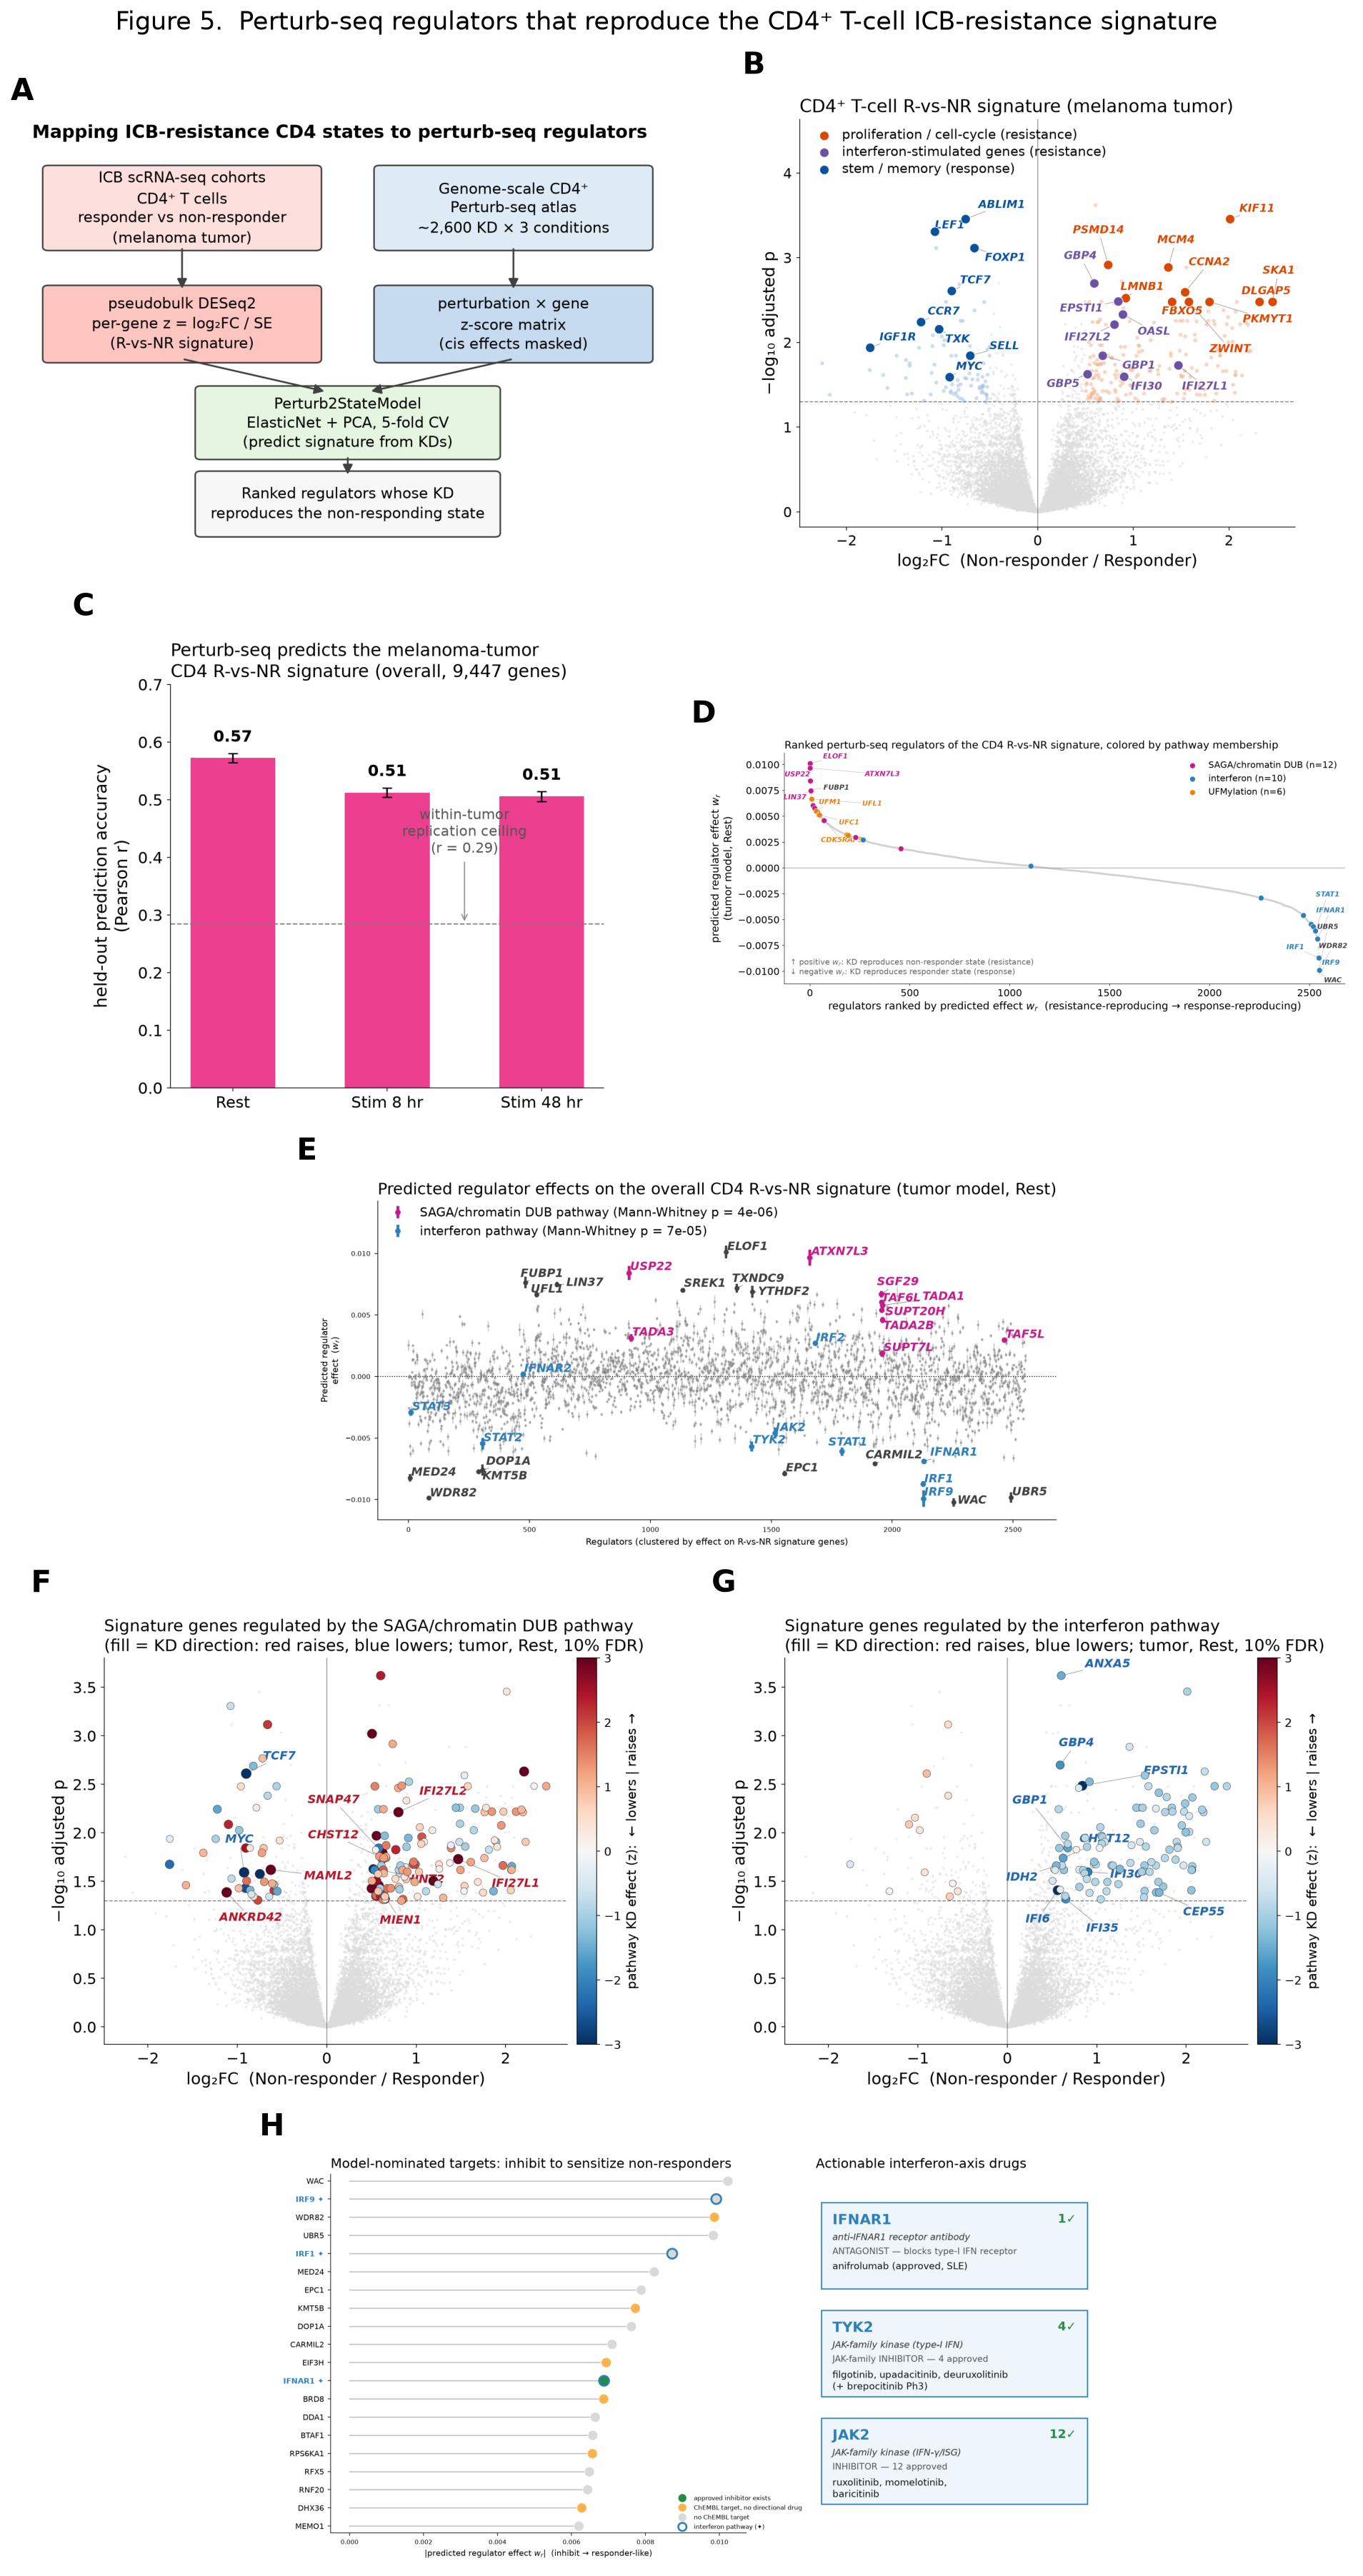
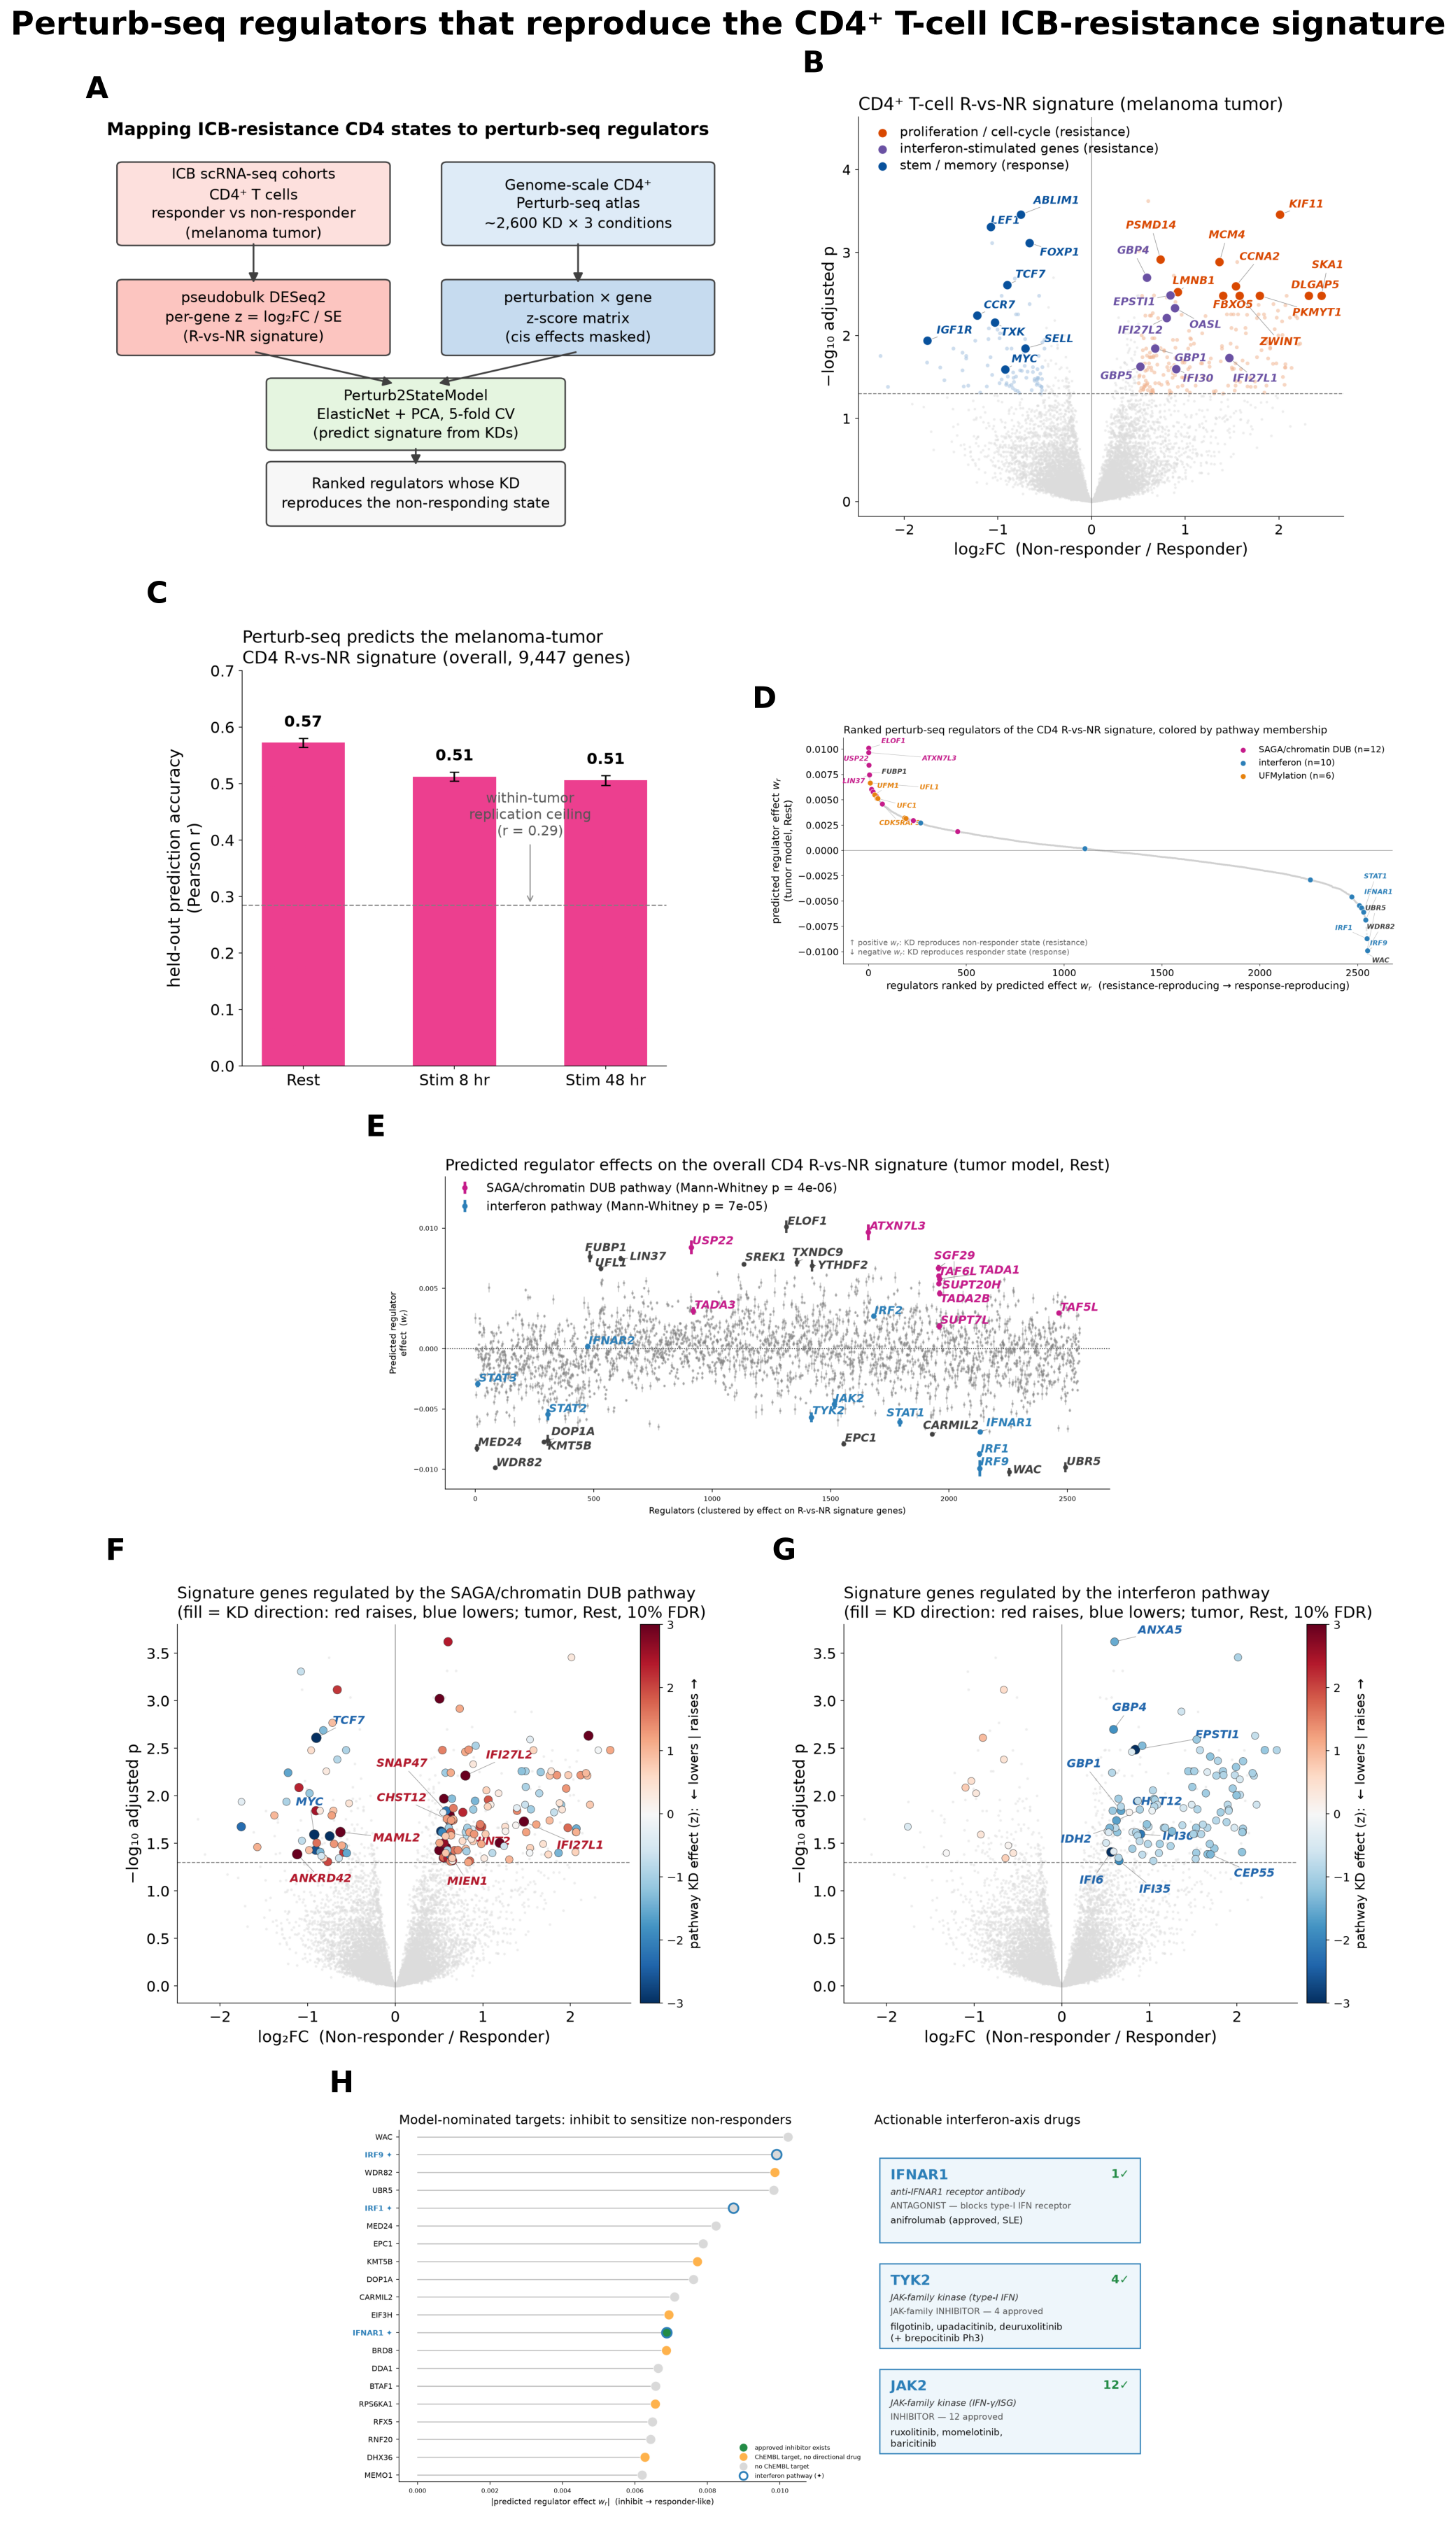
Text-only README (remove embedded figure); refresh composite to current v23; rewrite code/10 as clean 8-panel composition (relative paths)

diff --git a/code/10_figure5_composite.py b/code/10_figure5_composite.py
@@ -1,28 +1,24 @@
 """
-Assemble the 7-panel Figure 5 composite
+Assemble the 8-panel Figure 5 composite (A-H).
 
-Extracted reproduction code (Claude Science lineage).
-Source artifact version: 9b103f16-d49c-46e7-ad74-d9f286b67f5f
+Tiles the eight committed panel PNGs in results/figures/ into the final
+figure5_composite.png. The individual panels are produced by scripts 04-07
+(and the schematic / ranked-regulator panels supplied alongside them).
+
 Conda environment: scrnaseq-perturbseq
 """
 
+import os
 import matplotlib.pyplot as plt
 import matplotlib.image as mpimg
 import matplotlib as mpl
-import os
-import sys
-import glob
-
-
-META_GREY = "#888888"
 
 
 def apply_figure_style(*, frame="open", font=None, sizes=(8, 7, 6), grid=False):
-    import matplotlib as mpl
     if frame not in ("open", "boxed", "none"):
         raise ValueError(f"frame must be 'open'|'boxed'|'none', got {frame!r}")
     try:
-        import os, sys, glob, matplotlib.font_manager as fm
+        import sys, glob, matplotlib.font_manager as fm
         fdir = os.path.join(os.environ.get("CONDA_PREFIX") or sys.prefix, "fonts")
         if os.path.isdir(fdir):
             known = {f.fname for f in fm.fontManager.ttflist}
@@ -33,250 +29,52 @@ def apply_figure_style(*, frame="open", font=None, sizes=(8, 7, 6), grid=False):
         pass
     base, secondary, tick = sizes
     boxed = (frame == "boxed")
-    rc = {
-        "font.family": "sans-serif",
-        "font.size": base,
-        "axes.labelsize": base,
-        "axes.titlesize": base,
-        "legend.fontsize": secondary,
-        "xtick.labelsize": tick,
-        "ytick.labelsize": tick,
+    mpl.rcParams.update({
+        "font.family": "sans-serif", "font.size": base,
+        "axes.labelsize": base, "axes.titlesize": base,
+        "legend.fontsize": secondary, "xtick.labelsize": tick, "ytick.labelsize": tick,
         "axes.linewidth": 0.6,
         "xtick.direction": "out", "ytick.direction": "out",
         "xtick.major.size": 3, "ytick.major.size": 3,
         "xtick.major.width": 0.6, "ytick.major.width": 0.6,
         "axes.spines.top": boxed, "axes.spines.right": boxed,
         "axes.spines.left": frame != "none", "axes.spines.bottom": frame != "none",
-        "axes.grid": bool(grid),
-        "legend.frameon": False,
-        "figure.dpi": 200,
-        "savefig.dpi": 300,
-        "savefig.bbox": "tight",
-        "axes.titleweight": "normal",
-        "axes.titlelocation": "left",
-        "axes.labelweight": "normal",
-        "lines.linewidth": 1.2,
-        "patch.linewidth": 0.6,
+        "axes.grid": bool(grid), "legend.frameon": False,
+        "figure.dpi": 200, "savefig.dpi": 300, "savefig.bbox": "tight",
+        "axes.titleweight": "normal", "axes.titlelocation": "left",
+        "axes.labelweight": "normal", "lines.linewidth": 1.2, "patch.linewidth": 0.6,
         "pdf.fonttype": 42, "ps.fonttype": 42,
-    }
+    })
     if font:
-        rc["font.sans-serif"] = [font, "DejaVu Sans"]
-    mpl.rcParams.update(rc)
+        mpl.rcParams["font.sans-serif"] = [font, "DejaVu Sans"]
 
 
-# Panel D: rebuild from lineage code (swap "module" -> "pathway")
-import numpy as np
-import pandas as pd
-import anndata
-from adjustText import adjust_text
-from scipy.stats import mannwhitneyu
-import scipy.cluster.hierarchy as sch
-import os, tempfile
-os.environ["NUMBA_CACHE_DIR"] = tempfile.mkdtemp()
+FIG_DIR = os.path.join(os.path.dirname(os.path.abspath(__file__)), "..", "results", "figures")
 
-np.random.seed(214)
-
-atlas = anndata.read_h5ad("/Users/syin/.claude-science/orgs/c8e50097-6b7c-40ca-b8eb-60f27d93ee37/artifacts/proj_50aa59908860/929e269b-6f1b-4fe9-9481-1d3dffb36182/vd08bb0dd_GWCD4i_zscore_subset.h5ad")
-atlas.var_names = atlas.var["gene_name"].astype(str).values
-sig = pd.read_csv("/Users/syin/.claude-science/orgs/c8e50097-6b7c-40ca-b8eb-60f27d93ee37/artifacts/proj_50aa59908860/ad421b73-9ff3-4728-8bae-bc41272463c0/vf61e5db3_CD4_RvsNR_signature.csv").set_index("gene")
-
-from pert2state_model.Perturb2StateModel import Perturb2StateModel
-
-
-def mask_cis(Xp):
-    Xm = Xp.copy()
-    for g in [i for i in Xm.index if i in Xm.columns]:
-        Xm.loc[g, g] = np.nan
-    return Xm.fillna(Xm.mean())
-
-
-def build_Xy(cond, sig_col):
-    m = (atlas.obs["culture_condition"] == cond).values
-    obs = atlas.obs[m]
-    Xall = atlas.X[m].astype(np.float64)
-    tgt = obs["target_contrast_gene_name"].astype(str).values
-    keep = ~pd.Series(tgt).duplicated().values
-    tgt = tgt[keep]
-    Xall = Xall[keep]
-    y = sig[sig_col].dropna()
-    common = np.intersect1d(y.index.values, atlas.var_names.values)
-    gi = pd.Index(atlas.var_names).get_indexer(common)
-    X = pd.DataFrame(Xall[:, gi].T, index=common, columns=tgt).astype(np.float64)
-    yv = y.loc[common].astype(np.float64)
-    yv = (yv - yv.mean()) / yv.std()
-    return mask_cis(X), yv
-
-
-Xr, yr = build_Xy("Rest", "z_discovery_tumor")
-mt = Perturb2StateModel(pca_transform=True, n_pcs=60, n_splits=5, n_repeats=1, positive=False)
-mt.fit(Xr, yr, model_id="tumor_Rest")
-
-coefs = mt.get_coefs().copy()
-
-sig_gs = [g for g in sig.index[sig["padj_tumor"] < 0.01] if g in Xr.index]
-df2cluster = Xr.T[sig_gs]
-link = sch.linkage(df2cluster.values, method="ward")
-ordered_regs = df2cluster.index[sch.leaves_list(link)].tolist()
-cp = coefs.loc[ordered_regs].copy()
-cp["rank"] = range(len(cp))
-cp = cp.dropna(subset=["coef_mean"])
-
-cp2 = cp.copy()
-cp2.index = [i.split("_")[0] for i in cp2.index]
-
-saga_module = ["USP22", "ATXN7L3", "SGF29", "ENY2", "TADA1", "TADA2B", "TADA3", "TAF5L", "TAF6L", "SUPT7L", "SUPT20H", "KAT2A", "KAT2B", "CCDC101"]
-ifn_module = ["IRF1", "IRF9", "IFNAR1", "IFNAR2", "STAT1", "STAT2", "JAK1", "JAK2", "TYK2", "IRF2", "STAT3"]
-
-
-def enr(module, name):
-    present = [g for g in module if g in cp2.index]
-    abs_mod = np.abs(cp2.loc[present, "coef_mean"])
-    abs_all = np.abs(cp2["coef_mean"])
-    if len(present) >= 3:
-        _, p = mannwhitneyu(abs_mod, abs_all, alternative="greater")
-    else:
-        p = np.nan
-    return present, p
-
-
-saga_pl, saga_p = enr(saga_module, "SAGA/chromatin DUB pathway")
-ifn_pl, ifn_p = enr(ifn_module, "Interferon pathway")
+# Panel letter -> committed PNG filename
+panels = {
+    "A": "panelA_schematic.png",         # analysis schematic
+    "B": "panelB_volcano.png",           # R-vs-NR signature volcano
+    "C": "panelC_prediction.png",        # held-out prediction accuracy
+    "D": "panelD_ranked_regulators.png", # ranked regulators by pathway
+    "E": "panelD_regulator_effects.png", # predicted regulator effects
+    "F": "panelE_saga_volcano.png",      # SAGA-pathway targets
+    "G": "panelF_ifn_volcano.png",       # interferon-pathway targets
+    "H": "panelG_drug_targets.png",      # nominated drug targets
+}
 
 apply_figure_style()
-top20 = pd.concat([cp2["coef_mean"].nsmallest(10), cp2["coef_mean"].nlargest(10)])
-fig, ax = plt.subplots(figsize=(11, 5.2))
-ax.errorbar(cp2["rank"], cp2["coef_mean"], yerr=cp2["coef_sem"], fmt=".", color="grey", markersize=3, alpha=0.4, elinewidth=1, capsize=0)
-ax.errorbar(cp2.loc[top20.index, "rank"], cp2.loc[top20.index, "coef_mean"], yerr=cp2.loc[top20.index, "coef_sem"], fmt=".", color="#404040", markersize=7, elinewidth=2.2, capsize=0, alpha=0.95)
-for mod, color, name, p in [(saga_pl, "#c51b8a", "SAGA/chromatin DUB pathway", saga_p), (ifn_pl, "#2c7fb8", "interferon pathway", ifn_p)]:
-    ax.errorbar(cp2.loc[mod, "rank"], cp2.loc[mod, "coef_mean"], yerr=cp2.loc[mod, "coef_sem"], fmt=".", color=color, markersize=8, elinewidth=2.5, capsize=0, label=f"{name} (Mann-Whitney p = {p:.1g})", zorder=5)
-ax.axhline(0, color="black", ls=":", alpha=1, lw=0.8)
-ann = list(dict.fromkeys(list(top20.index) + saga_pl + ifn_pl))
-texts = []
-for g in ann:
-    col = "#c51b8a" if g in saga_pl else ("#2c7fb8" if g in ifn_pl else "#404040")
-    texts.append(ax.text(cp2.loc[g, "rank"], cp2.loc[g, "coef_mean"], g, fontsize=6.5, fontweight="bold", color=col, fontstyle="italic"))
-adjust_text(texts, ax=ax, arrowprops=dict(arrowstyle="->", color="black", alpha=0.5, lw=0.5))
-ax.set_xlabel("Regulators (clustered by effect on R-vs-NR signature genes)")
-ax.set_ylabel("Predicted regulator\neffect  ($w_r$)")
-ax.set_title("Predicted regulator effects on the overall CD4 R-vs-NR signature (tumor model, Rest)", fontsize=9, loc="left")
-ax.legend(frameon=False, fontsize=7, loc="upper left")
-fig.savefig("panelD_regulator_effects.png", dpi=200, bbox_inches="tight")
-plt.close(fig)
-
-# Panel G: rebuild from lineage code (swap "module" -> "pathway")
-import json
-from matplotlib.lines import Line2D
-
-tg = json.load(open("/Users/syin/.claude-science/orgs/c8e50097-6b7c-40ca-b8eb-60f27d93ee37/artifacts/proj_50aa59908860/16716cfb-d54e-4644-9a01-cba9ca73ca22/v7449d16d_chembl_targets.json"))
-cands = {c["gene"]: c for c in json.load(open("/Users/syin/.claude-science/orgs/c8e50097-6b7c-40ca-b8eb-60f27d93ee37/artifacts/proj_50aa59908860/b3eaf633-3a7d-42a9-9298-010a7b672a36/veeb6ed5c_candidates.json"))}
-dd = json.load(open("/Users/syin/.claude-science/orgs/c8e50097-6b7c-40ca-b8eb-60f27d93ee37/artifacts/proj_50aa59908860/c709b381-6a17-4e4a-a541-98d2a6ed8140/v048919e9_drug_details.json"))
-ifn = json.load(open("/Users/syin/.claude-science/orgs/c8e50097-6b7c-40ca-b8eb-60f27d93ee37/artifacts/proj_50aa59908860/86849dd1-e599-42b0-aacc-a569710831dd/v50898db3_ifnar_drugs.json"))
-
-
-def clean_name(n):
-    if not n:
-        return None
-    n = n.lower()
-    for salt in [" phosphate", " hydrochloride", " citrate", " maleate", " hemihydrate", " malate", " sulfate"]:
-        n = n.replace(salt, "")
-    return n.strip()
-
-
-def approved_leads(gene, n_show=3):
-    ds = dd.get(gene, {}).get("drugs", [])
-    names = []
-    for d in ds:
-        if d.get("max_phase") == 4 and d.get("name"):
-            cn = clean_name(d["name"])
-            if cn and cn not in names:
-                names.append(cn)
-    return names[:n_show], len([d for d in ds if d.get("max_phase") == 4])
-
-
-jak2_leads, _ = approved_leads("JAK2", 3)
-tyk2_leads, _ = approved_leads("TYK2", 3)
-lead_map = {"JAK2": ", ".join(jak2_leads), "TYK2": ", ".join(tyk2_leads), "IFNAR1": "anifrolumab"}
-
-rows = []
-for g, c in cands.items():
-    n_appr = len([d for d in dd.get(g, {}).get("drugs", []) if d.get("max_phase") == 4])
-    tid = tg.get(g, {}).get("target_chembl_id")
-    ttype = tg.get(g, {}).get("target_type")
-    if g == "IFNAR1":
-        n_appr = len([d for d in ifn.get("IFNAR1", []) if d.get("max_phase") == 4 and d.get("action") == "ANTAGONIST"])
-    tier = ("approved drug" if n_appr > 0 else ("target, no directional drug" if tid else "no ChEMBL target"))
-    rows.append({"gene": g, "wr": c["wr"], "rank": c["rank"], "ifn_module": c["ifn_module"],
-                 "target_chembl_id": tid, "target_type": ttype, "n_approved": n_appr,
-                 "lead_drugs": lead_map.get(g, ""), "tier": tier})
-dt = pd.DataFrame(rows).sort_values("wr")
-
-apply_figure_style()
-IFN_COLOR = "#2c7fb8"
-jak2_show = jak2_leads[:4]
-d = dt[dt["wr"] < 0].sort_values("wr").head(20).iloc[::-1].reset_index(drop=True)
-tier_color = {"approved drug": "#238b45", "target, no directional drug": "#feb24c", "no ChEMBL target": "#d9d9d9"}
-fig, (axL, axR) = plt.subplots(1, 2, figsize=(13.5, 6.4), gridspec_kw={"width_ratios": [1.5, 1.0]})
-y = np.arange(len(d))
-for i, r in d.iterrows():
-    axL.plot([0, abs(r["wr"])], [i, i], color="#bdbdbd", lw=1, zorder=1)
-    axL.scatter(abs(r["wr"]), i, s=95, color=tier_color[r["tier"]], edgecolor=(IFN_COLOR if r["ifn_module"] else "white"),
-                linewidth=(1.8 if r["ifn_module"] else 0.5), zorder=3)
-axL.set_yticks(y)
-axL.set_yticklabels([f'{g}' + (" ✦" if m else "") for g, m in zip(d["gene"], d["ifn_module"])], fontsize=7.5)
-for tl, m in zip(axL.get_yticklabels(), d["ifn_module"]):
-    if m:
-        tl.set_color(IFN_COLOR)
-        tl.set_fontweight("bold")
-axL.set_xlabel("|predicted regulator effect $w_r$|  (inhibit → responder-like)")
-axL.set_title("Model-nominated targets: inhibit to sensitize non-responders", fontsize=8.6, loc="left")
-axL.legend(handles=[Line2D([], [], marker='o', ls='', mfc=tier_color["approved drug"], mec='none', ms=8, label="approved inhibitor exists"),
-                    Line2D([], [], marker='o', ls='', mfc=tier_color["target, no directional drug"], mec='none', ms=8, label="ChEMBL target, no directional drug"),
-                    Line2D([], [], marker='o', ls='', mfc=tier_color["no ChEMBL target"], mec='none', ms=8, label="no ChEMBL target"),
-                    Line2D([], [], marker='o', ls='', mfc='white', mec=IFN_COLOR, mew=1.8, ms=8, label="interferon pathway (✦)")],
-           frameon=False, fontsize=6.3, loc="lower right")
-axL.margins(y=0.02)
-axR.axis("off")
-axR.set_title("Actionable interferon-axis drugs", fontsize=8.6, loc="left")
-cards = [
-    ("IFNAR1", "anti-IFNAR1 receptor antibody", "anifrolumab (approved, SLE)", "ANTAGONIST — blocks type-I IFN receptor", 1),
-    ("TYK2", "JAK-family kinase (type-I IFN)", ", ".join(tyk2_leads) + "\n(+ brepocitinib Ph3)", "JAK-family INHIBITOR — 4 approved", 4),
-    ("JAK2", "JAK-family kinase (IFN-γ/ISG)", ", ".join(jak2_show[:2]) + ",\n" + ", ".join(jak2_show[2:4]), "INHIBITOR — 12 approved", 12),
-]
-yc = 0.92
-for gene, tclass, drugs, moa, n in cards:
-    axR.add_patch(plt.Rectangle((0.02, yc - 0.24), 0.96, 0.24, transform=axR.transAxes, fc="#eef6fb", ec=IFN_COLOR, lw=1.2, zorder=1))
-    axR.text(0.06, yc - 0.03, gene, transform=axR.transAxes, fontsize=11, fontweight="bold", color=IFN_COLOR, va="top")
-    axR.text(0.06, yc - 0.085, tclass, transform=axR.transAxes, fontsize=6.6, fontstyle="italic", color="#333", va="top")
-    axR.text(0.06, yc - 0.125, moa, transform=axR.transAxes, fontsize=6.4, color="#555", va="top")
-    axR.text(0.06, yc - 0.165, drugs, transform=axR.transAxes, fontsize=6.8, color="#111", va="top")
-    axR.text(0.94, yc - 0.03, f"{n}✓", transform=axR.transAxes, fontsize=9, fontweight="bold", color="#238b45", va="top", ha="right")
-    yc -= 0.30
-axR.text(0.02, 0.02, "✓ = approved inhibitors on this ChEMBL target (mechanism-of-action; drug names as retrieved)",
-         transform=axR.transAxes, fontsize=5.6, color="#777", style="italic")
-fig.savefig("panelG_drug_targets.png", dpi=200, bbox_inches="tight")
-plt.close(fig)
-
-# Compose the final figure
-apply_figure_style()
-fig = plt.figure(figsize=(16, 26))
-gs = fig.add_gridspec(4, 2, height_ratios=[1.0, 1.0, 1.0, 0.92], hspace=0.11, wspace=0.05)
-
-
-def add(pos, img, lab):
-    ax = fig.add_subplot(pos)
-    ax.imshow(mpimg.imread(img))
+fig = plt.figure(figsize=(16, 30))
+gs = fig.add_gridspec(5, 2, height_ratios=[1.0, 1.0, 0.78, 1.0, 0.85], hspace=0.12, wspace=0.05)
+layout = [("A", (0, 0)), ("B", (0, 1)), ("C", (1, 0)), ("D", (1, 1)),
+          ("E", (2, slice(None))), ("F", (3, 0)), ("G", (3, 1)), ("H", (4, slice(None)))]
+for lab, pos in layout:
+    ax = fig.add_subplot(gs[pos])
+    ax.imshow(mpimg.imread(os.path.join(FIG_DIR, panels[lab])))
     ax.axis("off")
-    ax.text(-0.02, 1.02, lab, transform=ax.transAxes, fontsize=17, fontweight="bold", va="bottom", ha="left")
-
-
-add(gs[0, 0], "/Users/syin/.claude-science/orgs/c8e50097-6b7c-40ca-b8eb-60f27d93ee37/artifacts/proj_50aa59908860/ed5d7c05-1bad-452c-ad45-026ce6c5ddd0/v9ac8acef_panelA_schematic.png", "A")
-add(gs[0, 1], "/Users/syin/.claude-science/orgs/c8e50097-6b7c-40ca-b8eb-60f27d93ee37/artifacts/proj_50aa59908860/2deb0527-5e89-4862-b186-fd7f0991ebdd/vb52c5cef_panelB_volcano.png", "B")
-add(gs[1, 0], "/Users/syin/.claude-science/orgs/c8e50097-6b7c-40ca-b8eb-60f27d93ee37/artifacts/proj_50aa59908860/5998d4ab-5c9e-4c47-aab6-858cacf750e3/v0466839b_panelC_prediction.png", "C")
-add(gs[1, 1], "panelD_regulator_effects.png", "D")
-add(gs[2, 0], "/Users/syin/.claude-science/orgs/c8e50097-6b7c-40ca-b8eb-60f27d93ee37/artifacts/proj_50aa59908860/fffafb2f-b375-45ed-988f-3392daa1b78d/v94565d35_panelE_regulators.png", "E")
-add(gs[2, 1], "/Users/syin/.claude-science/orgs/c8e50097-6b7c-40ca-b8eb-60f27d93ee37/artifacts/proj_50aa59908860/4bd403f6-1805-42df-9c98-38dad1956d9e/v465a64f7_panelF_ifn_volcano.png", "F")
-add(gs[3, :], "panelG_drug_targets.png", "G")
-fig.suptitle("Figure 5.  Perturb-seq regulators that reproduce the CD4⁺ T-cell ICB-resistance signature", fontsize=15, y=0.902, x=0.5)
-fig.savefig("figure5_composite.png", dpi=150, bbox_inches="tight")
+    ax.text(-0.02, 1.02, lab, transform=ax.transAxes, fontsize=20, fontweight="bold", va="bottom", ha="left")
+fig.suptitle("Figure 5.  Perturb-seq regulators that reproduce the CD4\u207a T-cell ICB-resistance signature",
+             fontsize=22, fontweight="bold", y=0.905, x=0.5)
+fig.savefig(os.path.join(FIG_DIR, "figure5_composite.png"), dpi=150, bbox_inches="tight")
 plt.close(fig)
-print("recomposed")
+print("recomposed 8-panel figure")

diff --git a/README.md b/README.md
@@ -6,7 +6,6 @@ signature in melanoma. Instead of the source paper's young-vs-old "aging" signat
 we ask: **which CD4⁺ knockdowns reproduce the transcriptional state that separates
 ICB non-responders from responders — and are any of them druggable?**
 
-![Figure 5](results/figures/figure5_composite.png)
 
 ## Summary of findings
 